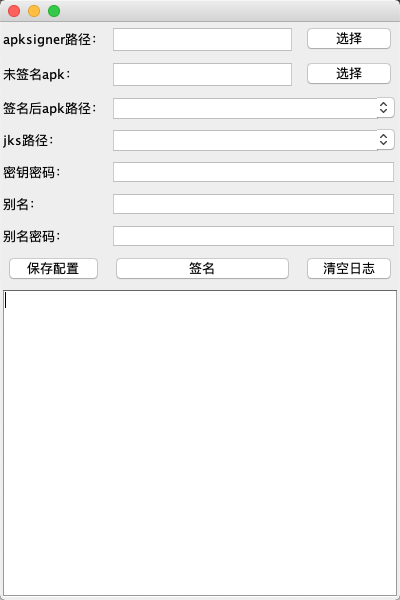
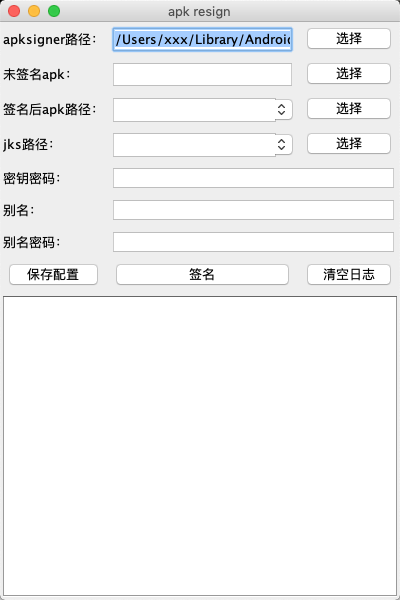
1.添加异步执行

Changed region(s): [[0.0, 0.15, 0.99, 0.51], [0.27, 0.0, 0.75, 0.09]]

diff --git a/signature/src/Sign.java b/signature/src/Sign.java
@@ -88,7 +88,7 @@ public class Sign extends JFrame {
         this.add(tf1);
         constraints.weightx = 1; //layout_weight缩放权重
         apksignerT = new JTextField("");
-        apksignerT.setText("/Users/leisure/Library/Android/sdk/build-tools/30.0.2/");
+        apksignerT.setText(Tools.isWindows() ? "C:\\Users\\xxx\\AppData\\Local\\Android\\Sdk\\build-tools\\30.0.2\\" : "/Users/xxx/Library/Android/sdk/build-tools/30.0.2/");
         gbaglayout.setConstraints(apksignerT, constraints);
         this.add(apksignerT);
         constraints.weightx = 0.0; //恢复默认值
@@ -158,12 +158,27 @@ public class Sign extends JFrame {
         gbaglayout.setConstraints(tf3, constraints);
         this.add(tf3);
         constraints.weightx = 1; //layout_weight缩放权重
-        constraints.gridwidth = GridBagConstraints.REMAINDER; //结束行
+//        constraints.gridwidth = GridBagConstraints.REMAINDER; //结束行
         JComboBox signApkPath = new JComboBox(signList.stream().map(a -> a.signApk).toArray());
         signApkPath.setEditable(true);
         signApkPath.setSelectedIndex(-1);//默认不选
         gbaglayout.setConstraints(signApkPath, constraints);
         this.add(signApkPath);
+        constraints.weightx = 0.0; //恢复默认值
+        constraints.gridwidth = GridBagConstraints.REMAINDER; //结束行
+        JButton signApkB = new JButton("选择");
+        signApkB.addActionListener(e -> {
+            fc.setCurrentDirectory(new File("."));//默认为当前文件夹
+            fc.setDialogTitle("apk输出路径");
+            fc.setFileSelectionMode(JFileChooser.DIRECTORIES_ONLY);
+            //打开文件选择器，现成阻塞，直到选择框被关闭
+            if (fc.showOpenDialog(signApkB) == JFileChooser.APPROVE_OPTION) {
+                String csv = fc.getSelectedFile().getAbsolutePath();
+                ((JTextComponent) signApkPath.getEditor().getEditorComponent()).setText(csv);
+            }
+        });
+        gbaglayout.setConstraints(signApkB, constraints);
+        this.add(signApkB);
 
         constraints.gridwidth = 1; //重新设置gridwidth的值
         constraints.weightx = 0.0; //恢复默认值
@@ -171,7 +186,7 @@ public class Sign extends JFrame {
         gbaglayout.setConstraints(tf4, constraints);
         this.add(tf4);
         constraints.weightx = 1; //layout_weight缩放权重
-        constraints.gridwidth = GridBagConstraints.REMAINDER; //结束行
+//        constraints.gridwidth = GridBagConstraints.REMAINDER; //结束行
         JComboBox jksPath = new JComboBox(signList.stream().map(a -> a.jks).toArray());
         jksPath.setEditable(true);
         jksPath.setSelectedIndex(-1);
@@ -195,6 +210,32 @@ public class Sign extends JFrame {
             }
         });
         this.add(jksPath);
+        constraints.weightx = 0.0; //恢复默认值
+        constraints.gridwidth = GridBagConstraints.REMAINDER; //结束行
+        JButton jksPathB = new JButton("选择");
+        jksPathB.addActionListener(e -> {
+            fc.setCurrentDirectory(new File("."));//默认为当前文件夹
+            fc.setDialogTitle("jks签名文件路径");
+            fc.setFileFilter(new FileFilter() {
+                @Override
+                public boolean accept(File f) {
+                    return f.getName().endsWith(".jks") || f.isDirectory();
+                }
+
+                @Override
+                public String getDescription() {
+                    return null;
+                }
+            });
+            fc.setFileSelectionMode(JFileChooser.FILES_ONLY);
+            //打开文件选择器，现成阻塞，直到选择框被关闭
+            if (fc.showOpenDialog(jksPathB) == JFileChooser.APPROVE_OPTION) {
+                String csv = fc.getSelectedFile().getAbsolutePath();
+                ((JTextComponent) jksPath.getEditor().getEditorComponent()).setText(csv);
+            }
+        });
+        gbaglayout.setConstraints(jksPathB, constraints);
+        this.add(jksPathB);
 
         constraints.gridwidth = 1; //重新设置gridwidth的值
         constraints.weightx = 0.0; //恢复默认值
@@ -325,9 +366,9 @@ public class Sign extends JFrame {
             cmd_zipalign = apksignerPath + "zipalign -p -f -v 4 " + unSignApkPath + " " + zipalign_apk;
 //            #确认对齐结果命令，按需使用(操作或验证成功后会看到 Verification succesful)
 //            # cmd += apksignerPath + 'zipalign -c -v 4 '+zipalign_apk +'\n '
-            cmd_signer = apksignerPath + "apksigner sign --ks " + jks + " --ks-pass pass:" + alikeyPas + " --ks-key-alias " + alikey + " --key-pass pass:" + keyPas + " --v2-signing-enabled true -v --out " + signer_apk + " " + zipalign_apk;
+            cmd_signer = apksignerPath + Tools.getApksigner() + " sign --ks " + jks + " --ks-pass pass:" + alikeyPas + " --ks-key-alias " + alikey + " --key-pass pass:" + keyPas + " --v2-signing-enabled true -v --out " + signer_apk + " " + zipalign_apk;
             //校验签名
-            String cmd_verify = apksignerPath + "apksigner verify -v --print-certs " + signer_apk;
+            String cmd_verify = apksignerPath + Tools.getApksigner() + " verify -v --print-certs " + signer_apk;
 //            #不推荐jarsigner
 
 //            jtLogcat.append(Tools.exec(cmd_zipalign, cmd_signer));

diff --git a/signature/src/Tools.java b/signature/src/Tools.java
@@ -127,6 +127,7 @@ public class Tools {
                     process.destroy();
 
                 } catch (InterruptedException exception) {
+                    result.state = false;
                     sb.append(exception.getMessage()).append("\n");
                     exception.printStackTrace();
                 }
@@ -179,4 +180,16 @@ public class Tools {
     }
 
 
+    /**
+     * windows下需要.bat后缀，但命令行里不用
+     *
+     * @return
+     */
+    public static String getApksigner() {
+        return isWindows() ? "apksigner.bat" : "apksigner";
+    }
+
+    public static boolean isWindows() {
+        return System.getProperty("os.name").toLowerCase().startsWith("win");
+    }
 }
